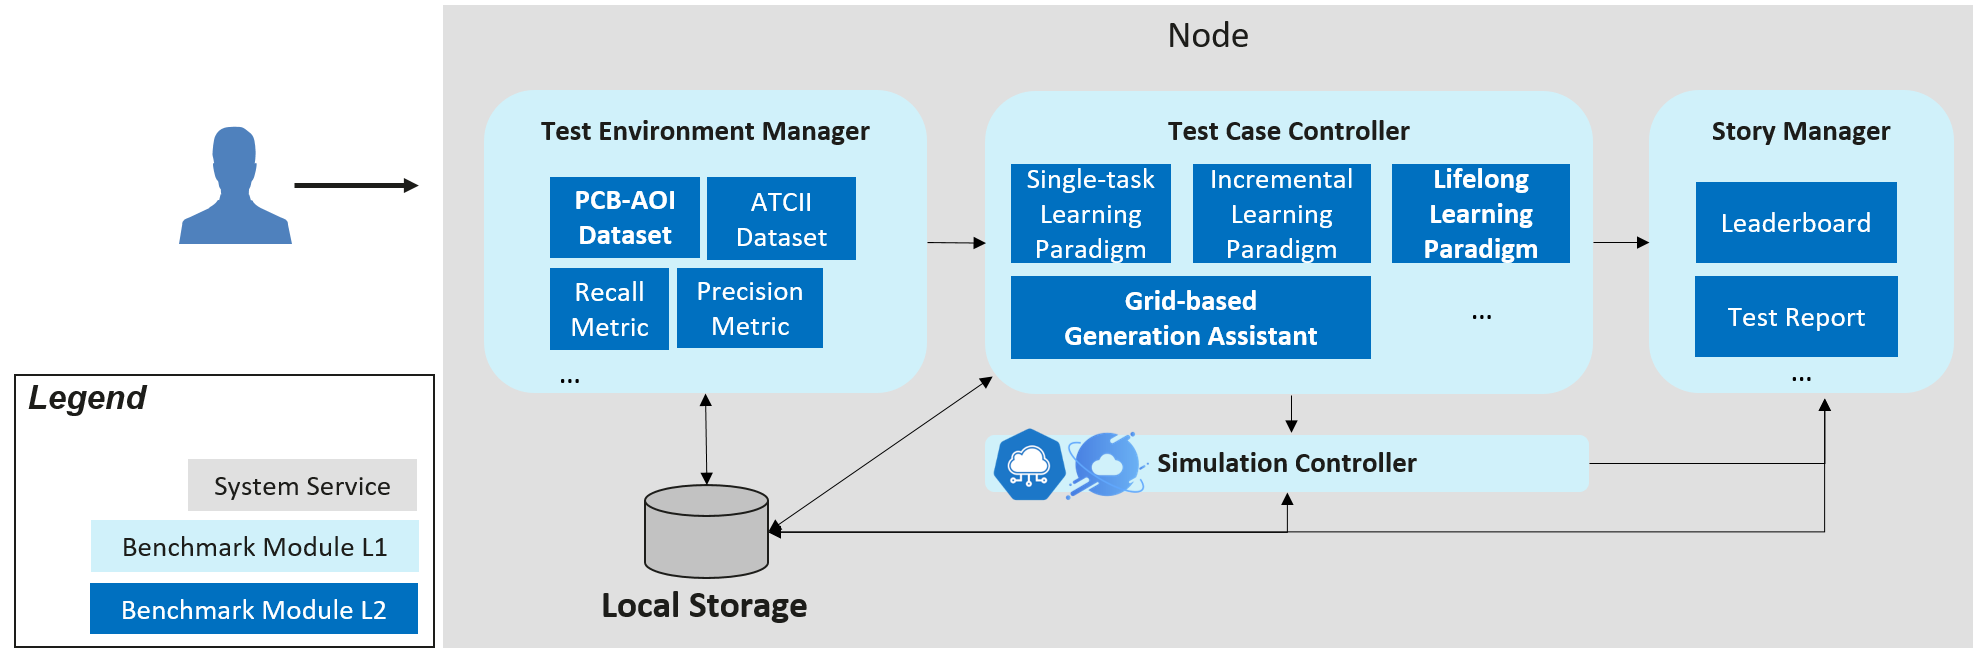
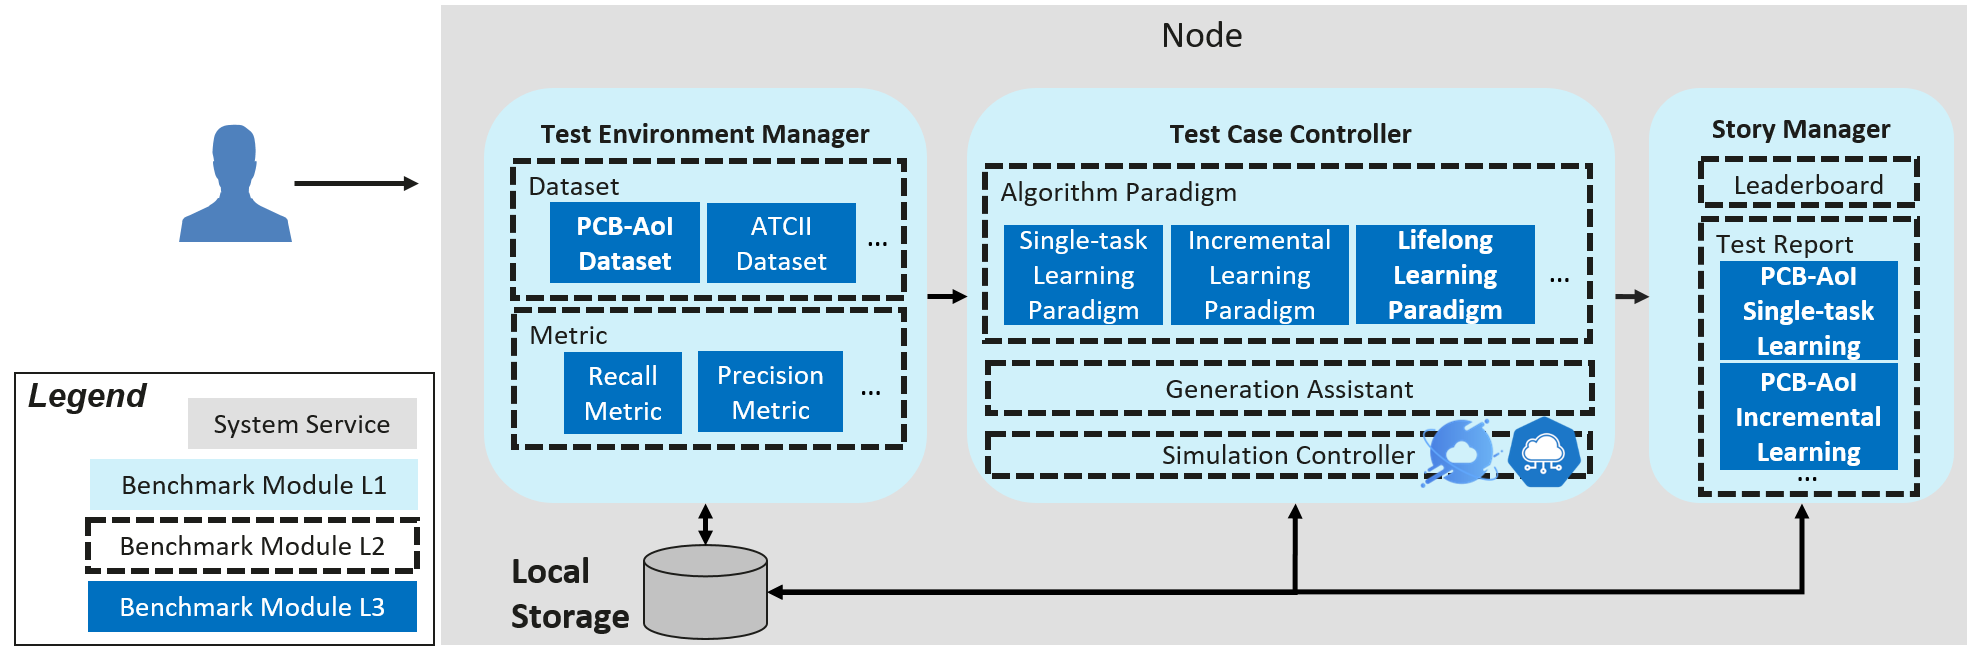
Re-organize concepts and modify images accordingly

diff --git a/docs/distributed-synergy-ai-benchmarking.md b/docs/distributed-synergy-ai-benchmarking.md
@@ -47,34 +47,7 @@ The architectures and related concepts are shown in the below figure. The ianvs 
     - Simulation Controller: control the simulation process of edge-cloud synergy AI, including the instance generation and vanishment of simulation containers
 - Story Manager: the output management and presentation of the test case, e.g., leaderboards
 
-
 ![](_static/ianvs_arch.png)
-
-### Definitions of Instances
-
-Quite a few terms exist in ianvs, which include the detailed modules and instances. To facilitate easier concept understanding, we show a hierarchical table of terms in the following figures.  
-![](_static/ianvs_concept.png)
-
-The concept definition of modules has been shown in the Architecture Section. In the following, we introduce the concepts of instances for easier understanding. 
-- ``Benchmark``: standardized evaluation process recognized by the academic or industry.  
-- ``Benchmarking Job``: the serving instance for an individual benchmarking with ianvs, which takes charge of the lifetime management of all possible ianvs components. 
-    - Besides components, a benchmarking job includes instances of a test environment, one or more test cases, a leaderboard, or a test report. 
-    - Different test environments lead to different benchmarking jobs and leaderboards. A benchmarking job can include multiple test cases. 
-- ``Test Object``: the targeted instance under benchmark testing. A typical example would be a particular algorithm or system. 
-- ``Test Environment (Test Env.)``: setups or configurations for benchmarking, typically excluding the test object.  
-    - It can include algorithm-wise and system-wise configurations.  
-    - It serves as the unique descriptor of a benchmarking job. Different test environments thus lead to different benchmarking jobs.
-- ``Test Case``: the executable instance to evaluate the performance of the test object under a particular test environment. Thus, the test case is usually generated with a particular test environment and outputs testing results if executed. 
-    - It is the atomic unit of a benchmark. That is, a benchmarking job can include quite a few test cases.
-- ``Attribute (Attr.) of Test Case``: Attributes or descriptors of a test case, e.g., id, name, and time stamp.   
-- ``Algorithm Paradigm``: acknowledged AI process which usually includes quite a few modules that can be implemented with replaceable algorithms, e.g., federated learning which includes modules of local train and global aggregation.  
-- ``Algorithm Module``: the component of the algorithm paradigm, e.g., the global aggregation module of the federated learning paradigm.  
-- ``Leaderboard (LDB)/ Test Report (TR)``: the ranking of the test object under a specific test environment. 
-    - The local node holds the local leaderboard for private usage. 
-    - The local leaderboard can be uploaded to a shared space (e.g., GitHub) as the global leaderboard. 
-
-
-### Details of Modules
 
 Ianvs includes Test-Environment Management, Test-case Controller and Story Manager in the Distributed Synergy AI benchmarking toolkits, where
 1. Test-Environment Manager supports the CRUD of Test environments, which basically includes
@@ -95,6 +68,33 @@ Ianvs includes Test-Environment Management, Test-case Controller and Story Manag
 1. Story Manager, which includes but is not limited to the following components
     - Leaderboard generation
     - Test report generation
+
+
+### Definitions of Objects
+
+Quite a few terms exist in ianvs, which include the detailed modules and objects. To facilitate easier concept understanding, we show a hierarchical table of terms in the following figures, where the top item contains the items below it.  
+![](_static/ianvs_concept.png)
+
+The concept definition of modules has been shown in the Architecture Section. In the following, we introduce the concepts of objects for easier understanding. 
+- ``Benchmark``: standardized evaluation process recognized by the academic or industry.  
+- ``Benchmarking Job``: the serving instance for an individual benchmarking with ianvs, which takes charge of the lifetime management of all possible ianvs components. 
+    - Besides components, a benchmarking job includes instances of a test environment, one or more test cases, a leaderboard, or a test report. 
+    - Different test environments lead to different benchmarking jobs and leaderboards. A benchmarking job can include multiple test cases. 
+- ``Test Object``: the targeted instance under benchmark testing. A typical example would be a particular algorithm or system. 
+- ``Test Environment``: setups or configurations for benchmarking, typically excluding the test object.  
+    - It can include algorithm-wise and system-wise configurations.  
+    - It serves as the unique descriptor of a benchmarking job. Different test environments thus lead to different benchmarking jobs.
+- ``Test Case``: the executable instance to evaluate the performance of the test object under a particular test environment. Thus, the test case is usually generated with a particular test environment and outputs testing results if executed. 
+    - It is the atomic unit of a benchmark. That is, a benchmarking job can include quite a few test cases.
+- ``Attribute (Attr.) of Test Case``: Attributes or descriptors of a test case, e.g., id, name, and time stamp.   
+- ``Algorithm Paradigm``: acknowledged AI process which usually includes quite a few modules that can be implemented with replaceable algorithms, e.g., federated learning which includes modules of local train and global aggregation.  
+- ``Algorithm Module``: the component of the algorithm paradigm, e.g., the global aggregation module of the federated learning paradigm.  
+- ``Leaderboard``: the ranking of the test object under a specific test environment. 
+    - The local node holds the local leaderboard for private usage. 
+    - The global leaderboard is shared (e.g., via GitHub) by acknowledge organization. 
+- ``Test Report``: the manuscript recording how the testing is conducted. 
+
+
 
 
 
